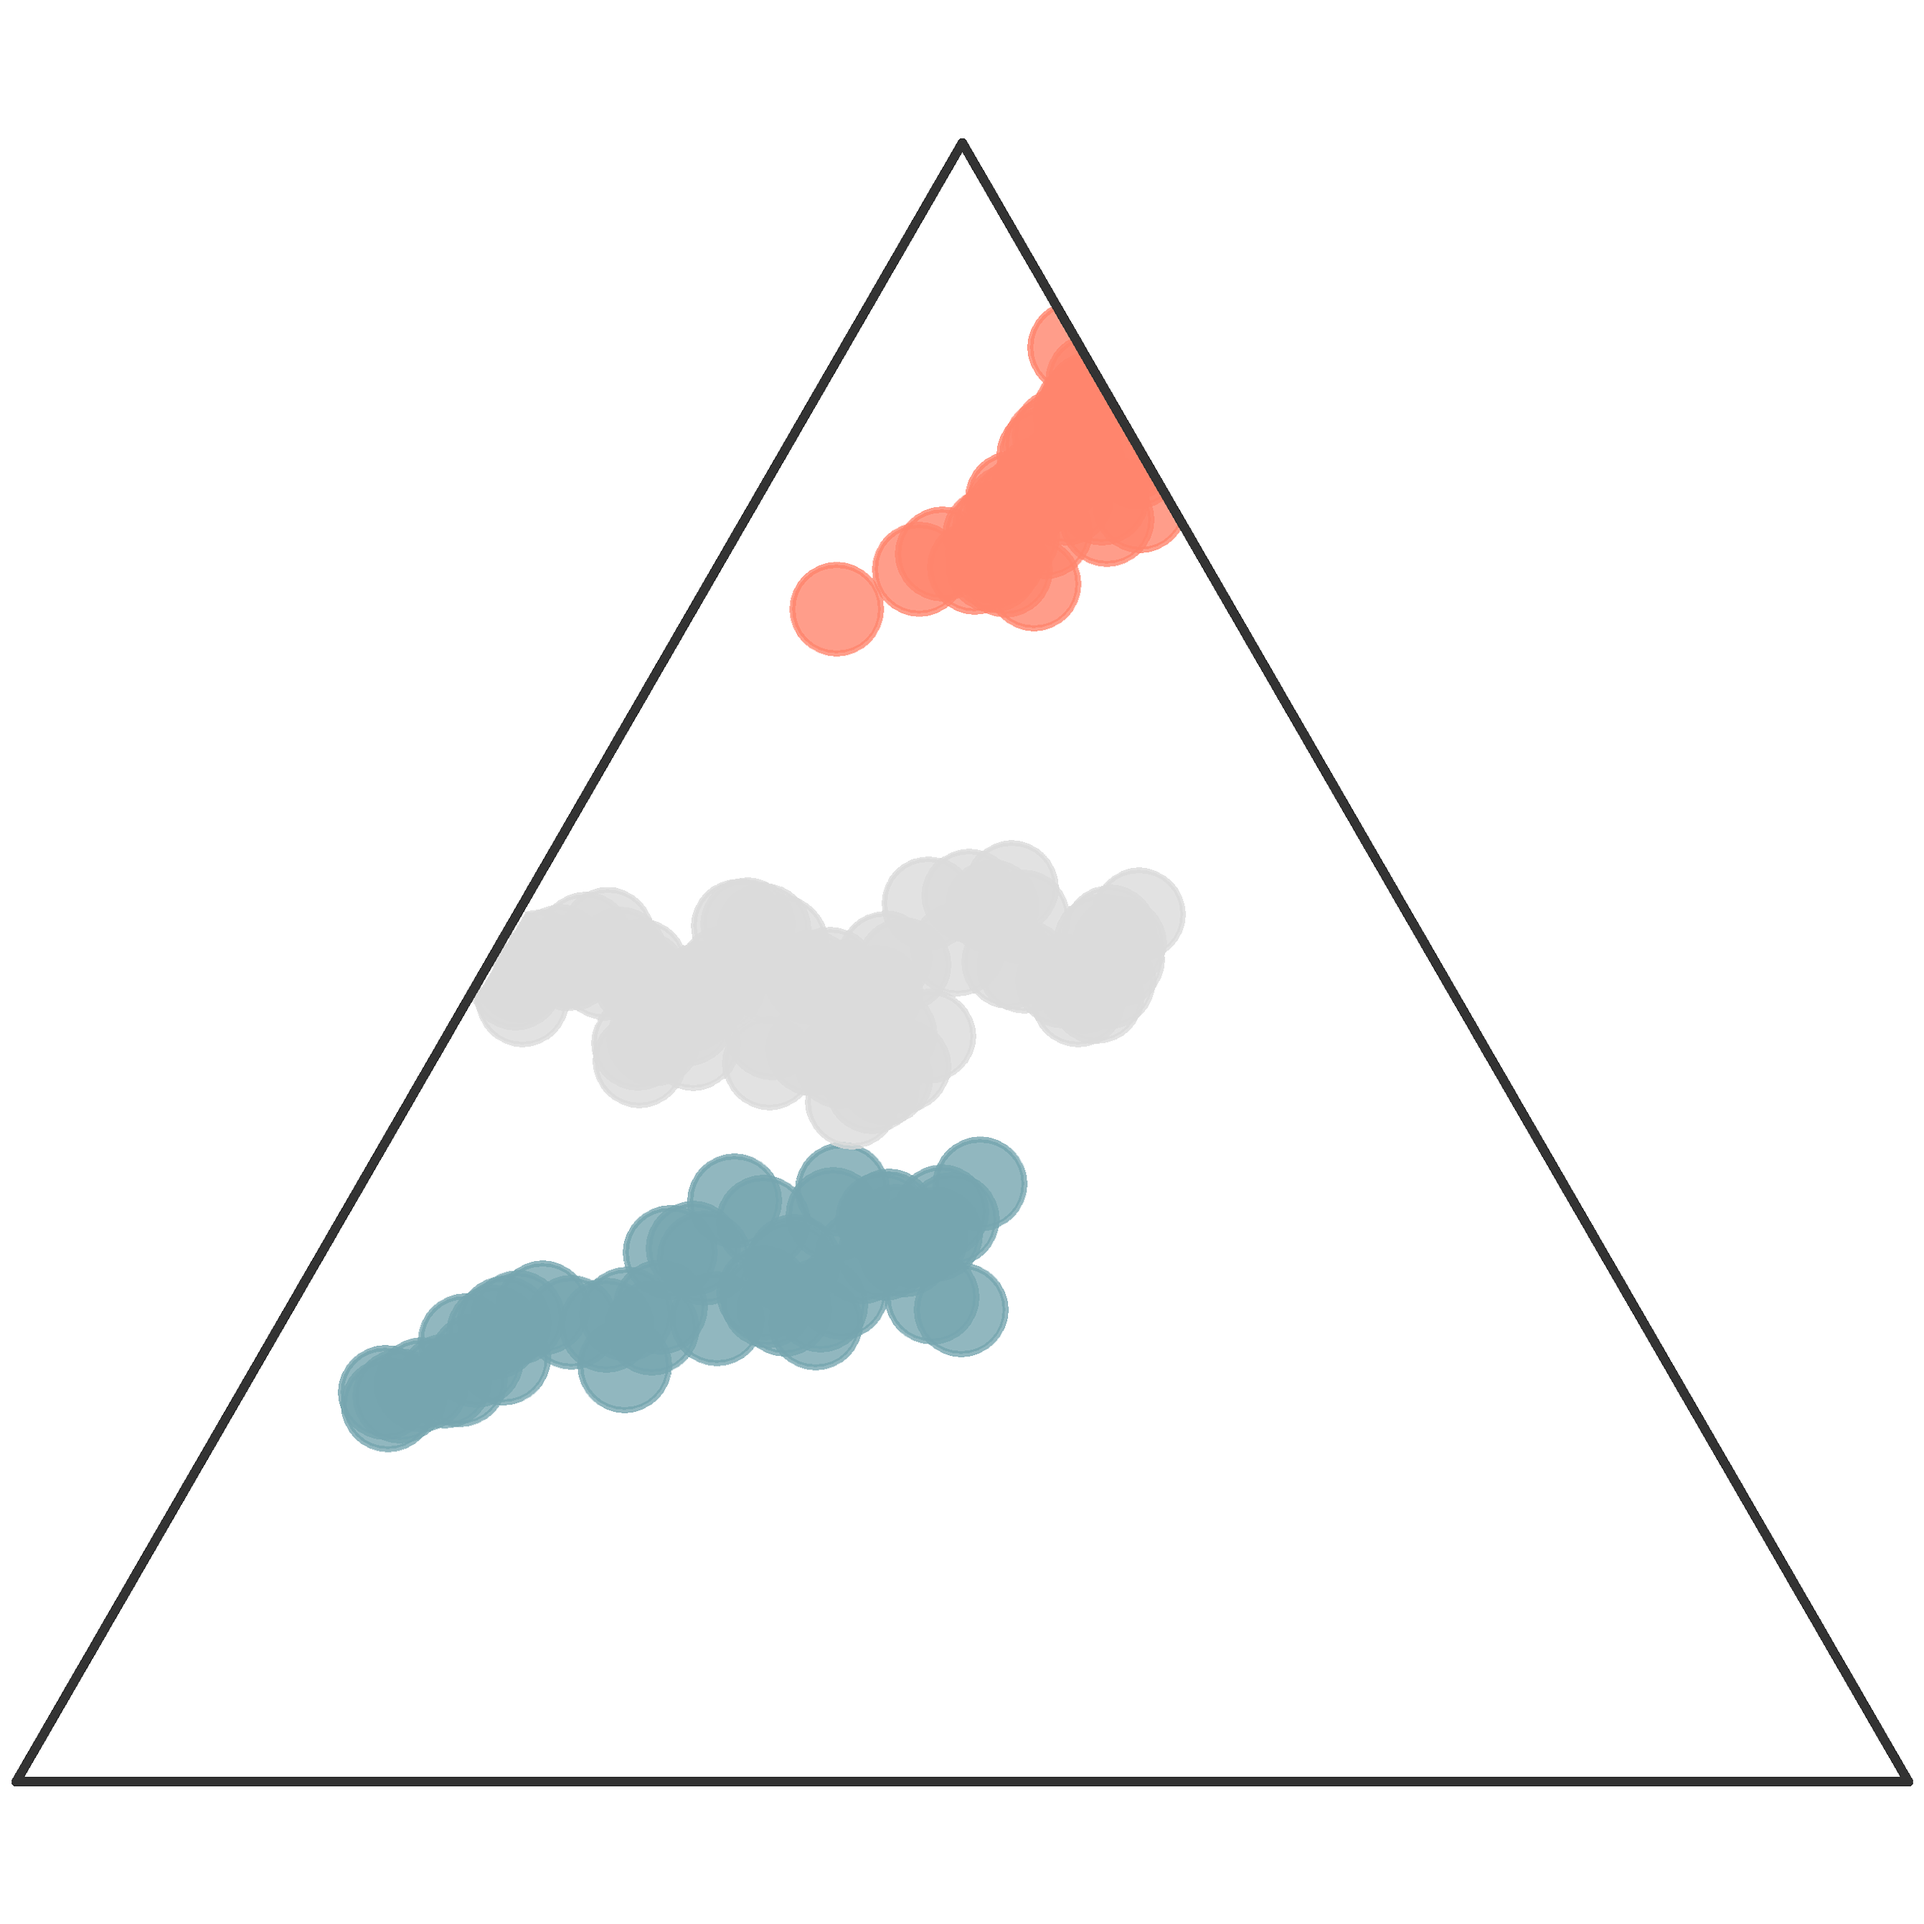
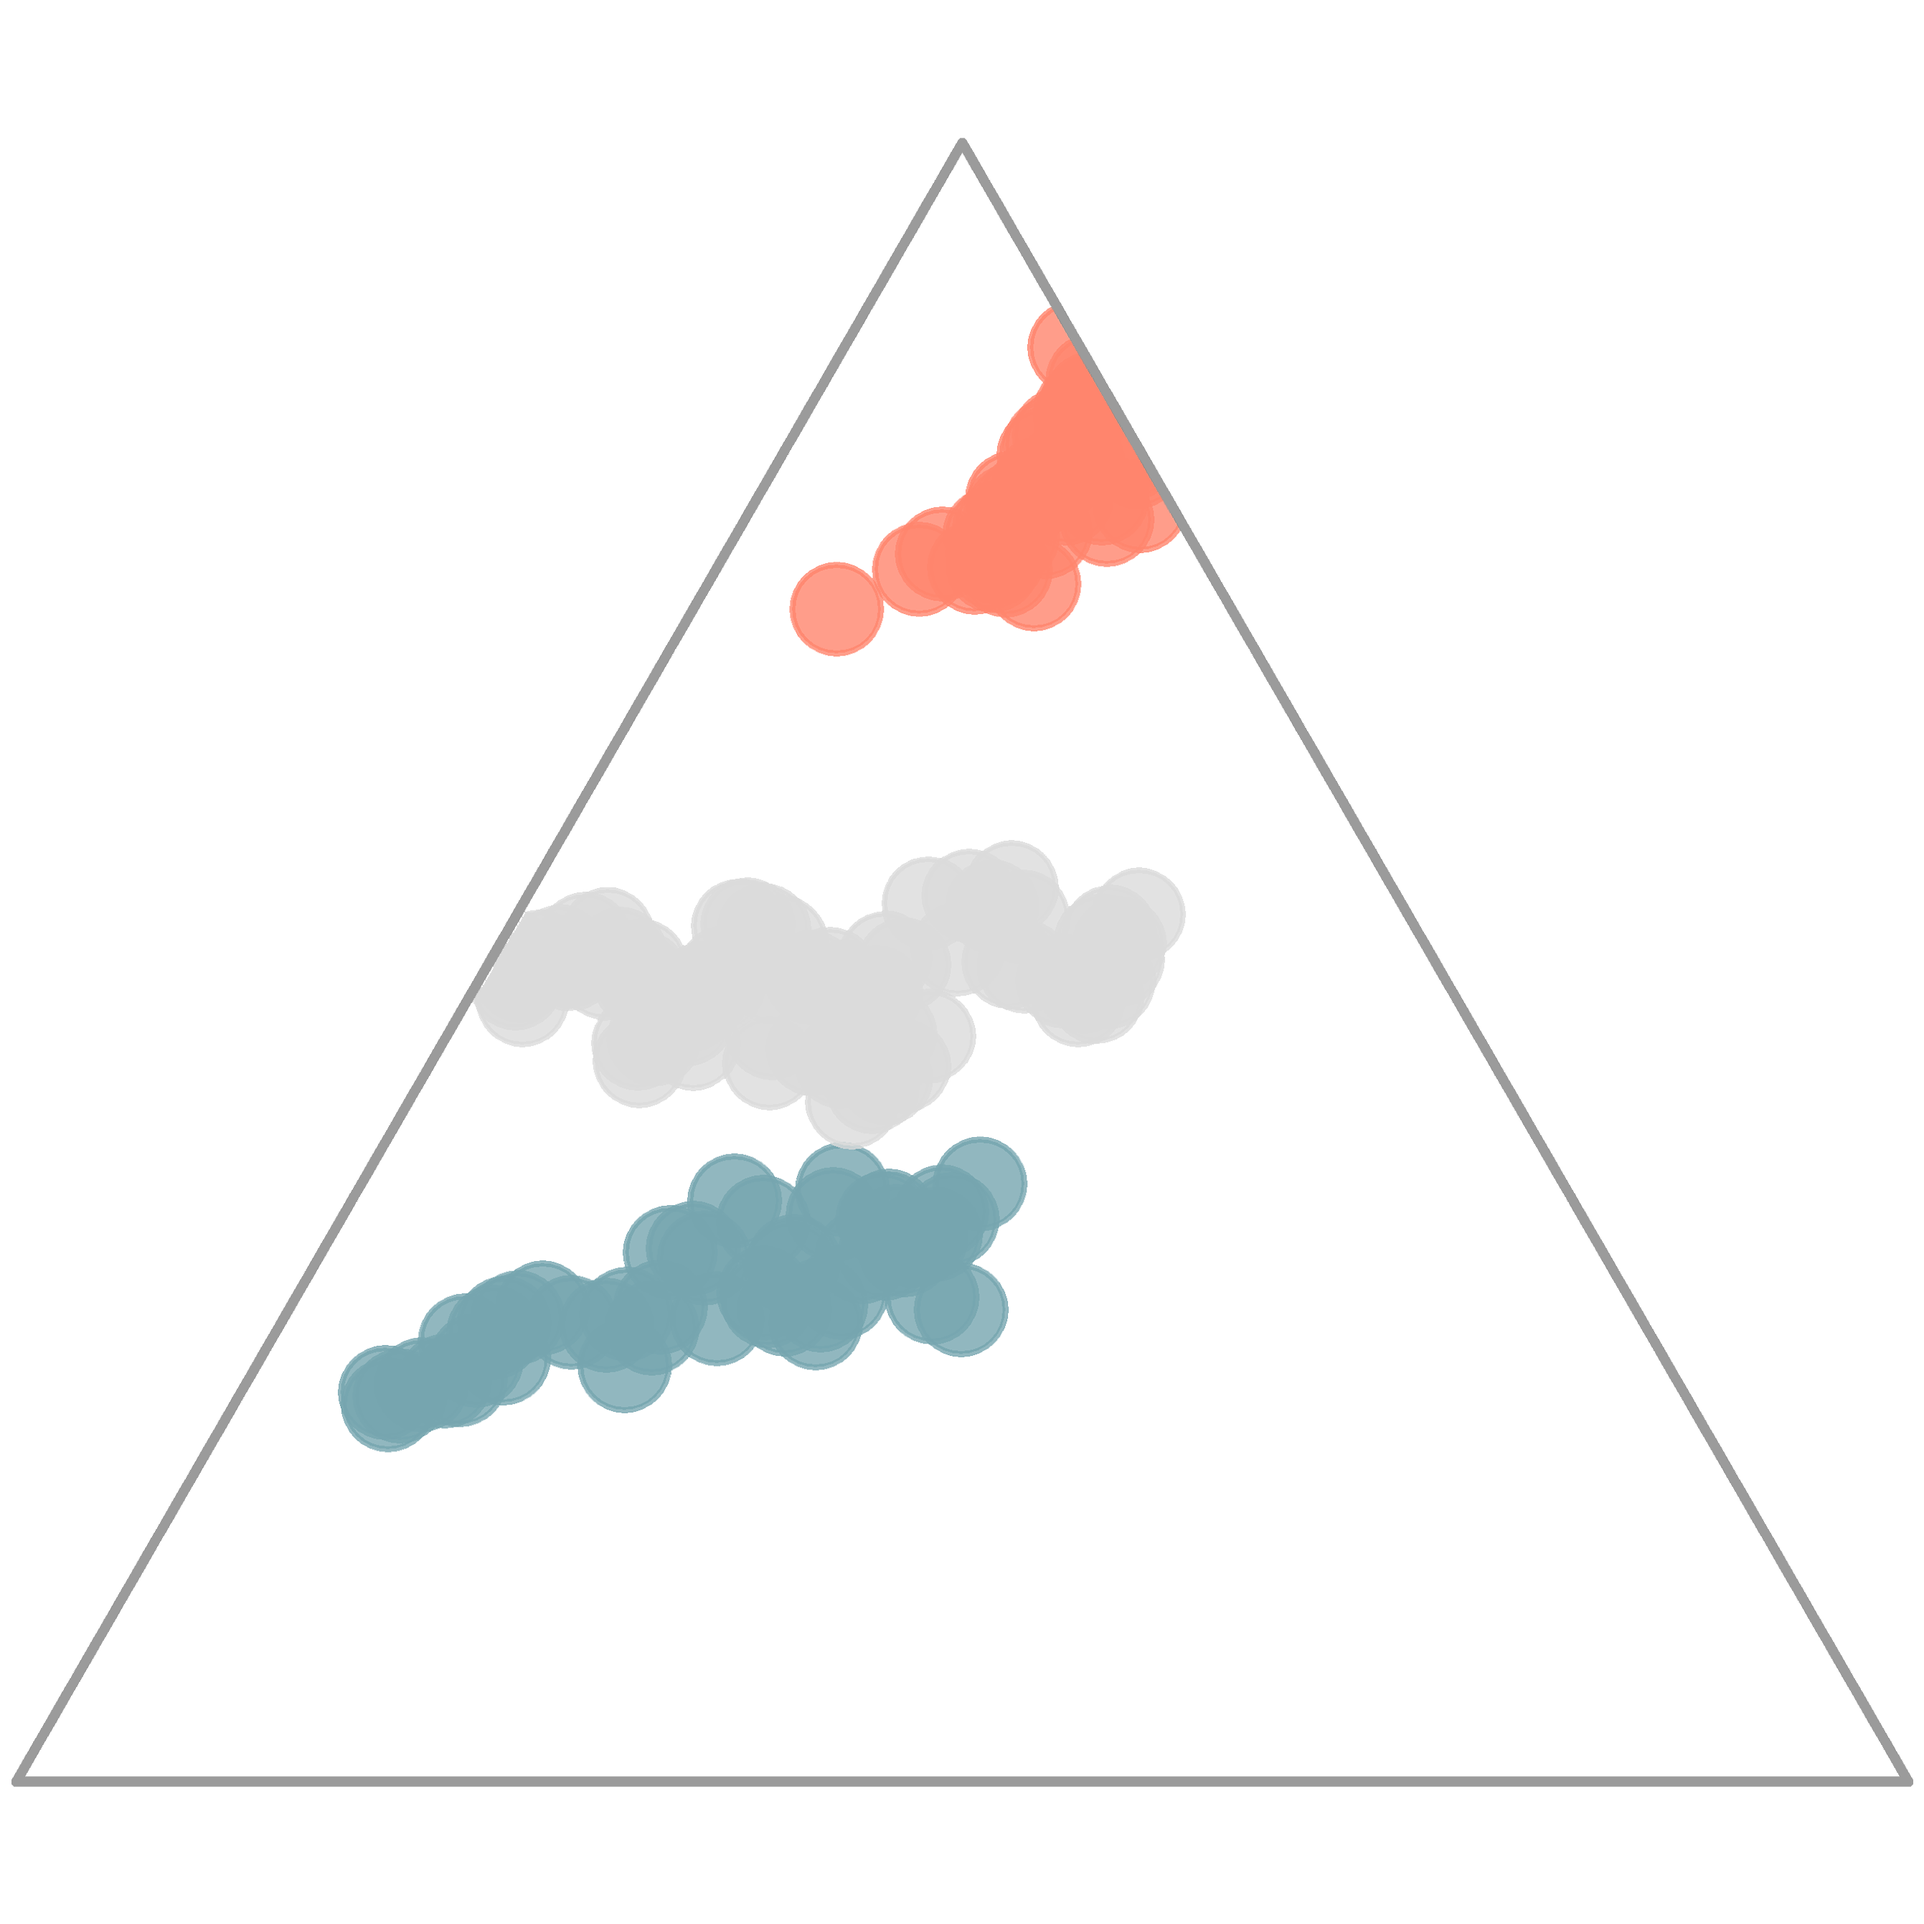
Made mostly cosmetic changes. Added email buttons.

diff --git a/index.html b/index.html
@@ -13,11 +13,10 @@
     <link href="https://fonts.googleapis.com/css2?family=Megrim&display=swap" rel="stylesheet">
     <link href="https://fonts.googleapis.com/css2?family=Montserrat&display=swap" rel="stylesheet">
 
-    <title>Petryx - Reservoir Quality De-risking in Frontier Basins</title>
+    <title>Petryx - Reservoir Quality De-risking for Frontier Basins</title>
 
     <!-- Additional CSS Files -->
     <link rel="stylesheet" type="text/css" href="assets/css/bootstrap.min.css">
-    <!-- <link rel="stylesheet" type="text/css" href="assets/css/font-awesome.css"> -->
     <link rel="stylesheet" type="text/css" href="assets/css/font-awesome-5.15.2.css">
     <link rel="stylesheet" type="text/css" href="assets/css/brands.css">
     <link rel="stylesheet" type="text/css" href="assets/css/main.css">
@@ -91,13 +90,13 @@
                         <h2>De-risking Reservoir Quality in Frontier Basins</h2>
                         <!-- <p>Minimise reservoir quality risk for hydrocarbon exploration before well or seismic data acquisition.</br>Quantify block-scale reservoir-quality potential for different time-slices with predictive computation and >140 million globally distributed data points.</p> -->
                         <!-- <p>Petryx lets hydrocarbon explorers minimise capital risk, without acquiring seismic or well data.</br>Quantify block-scale reservoir-quality potential for different time-slices with predictive computation and >140 million globally distributed data points.</p> -->
-                        <p>Petryx provides a unique approach to minimising hydrocarbon reservoir quality risk when seismic and well data are not available.</p>
+                        <p>Petryx provides a unique approach to minimising hydrocarbon reservoir quality risk when seismic and well data are not available</p>
                         <!-- <p>Quantify block- and basin-scale reservoir quality potential by stratigraphic unit.</p>
                         <p>Distill intelligence from >140 million globally distributed data points using predictive computation.</br></br></p> -->
                         <a href="#about" class="main-button-slider">Find Out More</a>
                     </div>
                     <div class="col-lg-4 col-md-4 col-sm-12 col-xs-12" data-scroll-reveal="enter right move 30px over 0.6s after 0.4s">
-                        <img src="assets/images/contour_plot_clean_trans.png" class="rounded img-fluid d-block mx-auto" alt="Petryx Data">
+                        <img src="assets/images/contour_plot_clean_trans_coral_new.png" class="rounded img-fluid d-block mx-auto" alt="Petryx Data">
                         <!-- <h1>reservoir quality</h1> -->
                         <!-- <h2>Predict reservoir quality potential without wells</h2>
                         <p>Petryx is the fastest way to lower risk for new ventures hydrocarbon exploration.</br>Distill block-scale stratigraphic reservoir quality potential predictions from >140 million raw data points with predictive algorithms.</p>
@@ -123,7 +122,7 @@
                         <h5>Reservoir sediment prediction algorithms</h5>
                     </div>
                     <div class="left-text">
-                        <p>We built predictive models for quantifying the sediment characteristics which influence reservoir quality on block and basin scales.
+                        <p>We have built predictive models for quantifying the sediment characteristics influencing reservoir quality on block and basin scales.
                     	</br></br>
                         Our algorithms undergo continuous improvement and are ground-truthed using reservoir data from modern and past sedimentary systems.</p>
                         <!-- <a href="#about2" class="main-button">Discover More</a> -->
@@ -194,7 +193,8 @@
 							<div class="col-lg-12 col-md-12 col-sm-12">
 		                   		<ul class="social">
 			                        <li><a href="https://www.linkedin.com/in/lorindavies/" target="_blank"><i class="fab fa-linkedin"></i></a></li>
-			                        <li><a href="https://www.researchgate.net/profile/Lorin-Davies" target="_blank"><i class="fab fa-researchgate"></i></a></li>
+			                        <li><a href="mailto:lorin.davies@petryxgeo.com"><i class="fas fa-envelope"></i></a></li>
+			                        <li><a href="https://www.researchgate.net/profile/Lorin-Davies/research" target="_blank"><i class="fab fa-researchgate"></i></a></li>
 		                    	</ul>
 							</div>
 						</div>
@@ -208,14 +208,15 @@
                         <h5 class="service-title">Dr Laura Fielding</h5>
                         <h4 class="service-title-sub">Geoscience Director</h4>
                         <!-- <p>Laura is a clastic sedimentologist with a PhD part-funded by BP from the University of Lancaster.</br></br>She specialises in isotope geochemistry, reservoir quality and sediment fingerprinting.</br></br>She loves lasers, sand, and wading around in rivers.</p> -->
-                        <p>Laura is a clastic sedimentologist specialising in isotope geochemistry and sediment fingerprinting.</p>
+                        <p>Laura is a clastic sedimentologist with 10 years experience of isotope geochemistry and sediment fingerprinting.</p>
                    		</br>
 
                    		<div class="row">
 							<div class="col-lg-12 col-md-12 col-sm-12">
 		                   		<ul class="social">
 			                        <li><a href="https://www.linkedin.com/in/fieldinglaura/" target="_blank"><i class="fab fa-linkedin"></i></a></li>
-			                        <li><a href="https://www.researchgate.net/profile/Laura-Fielding" target="_blank"><i class="fab fa-researchgate"></i></a></li>
+			                        <li><a href="mailto:laura.fielding@petryxgeo.com"><i class="fas fa-envelope"></i></a></li>
+			                        <li><a href="https://www.researchgate.net/profile/Laura-Fielding/research" target="_blank"><i class="fab fa-researchgate"></i></a></li>
 		                    	</ul>
 							</div>
 						</div>
@@ -236,7 +237,8 @@
 							<div class="col-lg-12 col-md-12 col-sm-12">
 		                   		<ul class="social">
 			                        <li><a href="https://www.linkedin.com/in/samuelfielding/" target="_blank"><i class="fab fa-linkedin"></i></a></li>
-			                        <li><a href="https://www.researchgate.net/profile/Samuel-Fielding" target="_blank"><i class="fab fa-researchgate"></i></a></li>
+			                        <li><a href="mailto:samuel.fielding@petryxgeo.com"><i class="fas fa-envelope"></i></a></li>
+			                        <li><a href="https://www.researchgate.net/profile/Samuel-Fielding/research" target="_blank"><i class="fab fa-researchgate"></i></a></li>
 		                    	</ul>
 							</div>
 						</div>
@@ -278,7 +280,7 @@
 							<div class="col-lg-12 col-md-12 col-sm-12">
 		                   		<ul class="social">
 			                        <li><a href="https://www.linkedin.com/in/richard-worden-bb118042/" target="_blank"><i class="fab fa-linkedin"></i></a></li>
-			                        <li><a href="https://www.researchgate.net/profile/R-Worden" target="_blank"><i class="fab fa-researchgate"></i></a></li>
+			                        <li><a href="https://www.researchgate.net/profile/R-Worden/research" target="_blank"><i class="fab fa-researchgate"></i></a></li>
 		                    	</ul>
 							</div>
 						</div>
@@ -298,7 +300,7 @@
 							<div class="col-lg-12 col-md-12 col-sm-12">
 		                   		<ul class="social">
 			                        <li><a href="https://www.linkedin.com/in/ian-millar-65152117/" target="_blank"><i class="fab fa-linkedin"></i></a></li>
-			                        <li><a href="https://www.researchgate.net/profile/Ian-Millar-4" target="_blank"><i class="fab fa-researchgate"></i></a></li>
+			                        <li><a href="https://www.researchgate.net/profile/Ian-Millar-4/research" target="_blank"><i class="fab fa-researchgate"></i></a></li>
 		                    	</ul>
 							</div>
 						</div>

diff --git a/assets/css/main.css b/assets/css/main.css
@@ -176,7 +176,7 @@ ul {
 p {
   font-size: 15px;
   line-height: 25px;
-  color: #4a4a4a;
+  color: #6e6f71;
   /*font-family: 'Montserrat', sans-serif;*/
 }
 
@@ -234,7 +234,7 @@ a.main-button-slider {
 }
 
 a.main-button-slider:hover {
-  background-color: #dbdbdb;
+  background-color: #ff856d;
 }
 
 a.main-button {
@@ -252,7 +252,7 @@ a.main-button {
 }
 
 a.main-button:hover {
-  background-color: #dbdbdb;
+  background-color: #ff856d;
 }
 
 button.main-button {
@@ -316,15 +316,15 @@ header
 }
 
 .background-header .main-nav .nav > li:hover > a {
-  color: #76a5af !important;
+  color: #ff856d !important;
 }
 
 .background-header .main-nav .nav > li > ul > li:hover > a {
-  color: #76a5af !important;
+  color: #ff856d !important;
 }
 
 .background-header .nav li a.active {
-  color: #76a5af !important;
+  color: #ff856d !important;
 }
 
 .header-area {
@@ -383,8 +383,8 @@ header
 
 .header-area .main-nav .nav li a {
   display: block;
-  font-weight: 500;
-  font-size: 15px;
+  font-weight: 400;
+  font-size: 14px;
   color: #fff;
   text-transform: uppercase;
   -webkit-transition: all 0.3s ease 0s;
@@ -402,7 +402,7 @@ header
 }
 
 .header-area .main-nav .nav li:hover a {
-  color: #76a5af;
+  color: #ff856d;
 }
 
 .header-area .main-nav .nav li.submenu {
@@ -472,12 +472,12 @@ header
   -moz-transition: all 0.3s ease 0s;
   -o-transition: all 0.3s ease 0s;
   transition: all 0.3s ease 0s;
-  background: #76a5af;
+  background: #ff856d;
 }
 
 .header-area .main-nav .nav li.submenu ul li a:hover {
   background: #fff;
-  color: #76a5af;
+  color: #ff856d;
   padding-left: 25px;
 }
 
@@ -613,7 +613,7 @@ header
 }
 
 .header-area.header-sticky .nav li a.active {
-  color: #76a5af;
+  color: #ff856d;
 }
 
 @media (max-width: 1200px) {
@@ -680,7 +680,7 @@ header
   }
   .header-area .main-nav .nav > li > a:hover,
   .header-area .main-nav .nav .submenu > ul > li > a:hover {
-    color: #76a5af;
+    color: #ff856d;
   }
   .header-area .main-nav .nav li.submenu ul {
     position: relative;
@@ -733,7 +733,7 @@ welcome
   display: flex;
   align-items: center;
   justify-content: center;
-  background-image: url(../images/pexels-aaron-ulsh-2860705_rot.jpg);
+  background-image: url(../images/pexels-aaron-ulsh-2860705_rev.jpg);
   background-repeat: no-repeat;
 /*
 TRY IT ... with or without CENTER CENTER
@@ -913,11 +913,10 @@ about
 }
 
 #about h5,
-#about2 h5,
-#services2 h5 {
+#about2 h5 {
   font-size: 26px;
   font-weight: 700;
-  color: #1e1e1e;
+  color: #76a5af;
   line-height: 40px;
   margin-bottom: 25px;
   letter-spacing: 0.5px;
@@ -926,7 +925,7 @@ about
 #services h5 {
   font-size: 26px;
   font-weight: 700;
-  color: #1e1e1e;
+  color: #76a5af;
   line-height: 40px;
   margin-bottom: 25px;
   letter-spacing: 0.5px;
@@ -944,7 +943,7 @@ about
 #services2 h5 {
   font-size: 26px;
   font-weight: 700;
-  color: #1e1e1e;
+  color: #76a5af;
   line-height: 40px;
   margin-bottom: 25px;
   letter-spacing: 0.5px;
@@ -1092,7 +1091,7 @@ services
 .service-item .service-title {
   font-weight: 500;
   font-size: 22px;
-  color: #1e1e1e;
+  color: #6e6f71;
   letter-spacing: 0.7px;
   margin-bottom: 15px;
   position: relative;
@@ -1102,7 +1101,7 @@ services
 .service-item .service-title-sub {
   font-weight: 400;
   font-size: 15px;
-  color: #1e1e1e;
+  color: #6e6f71;
   letter-spacing: 0.7px;
   margin-bottom: 25px;
   position: relative;
@@ -1148,7 +1147,7 @@ services
 }
 
 .service-item a:hover {
-  background-color: #dbdbdb;
+  background-color: #ff856d;
   color: #fff;
 }
 
